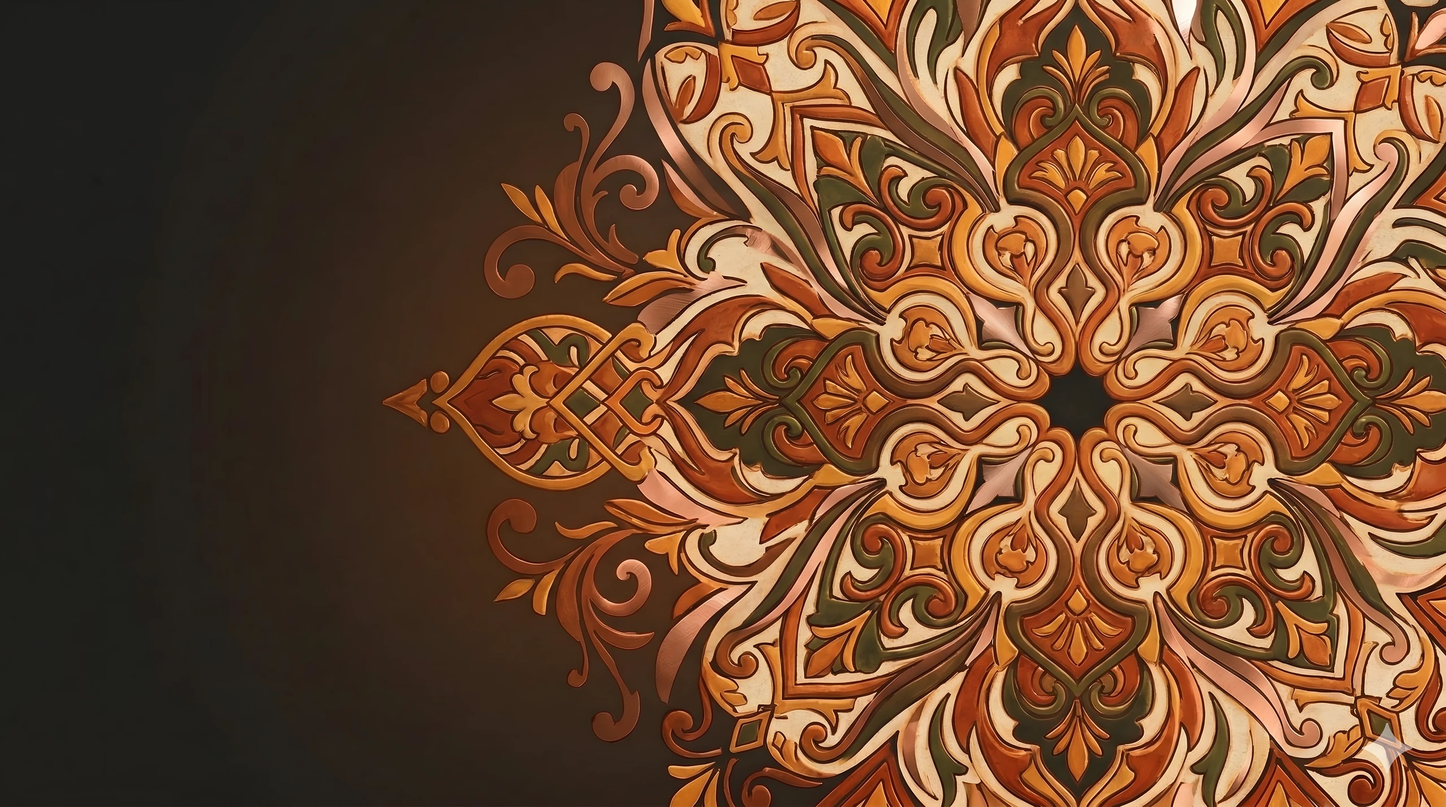
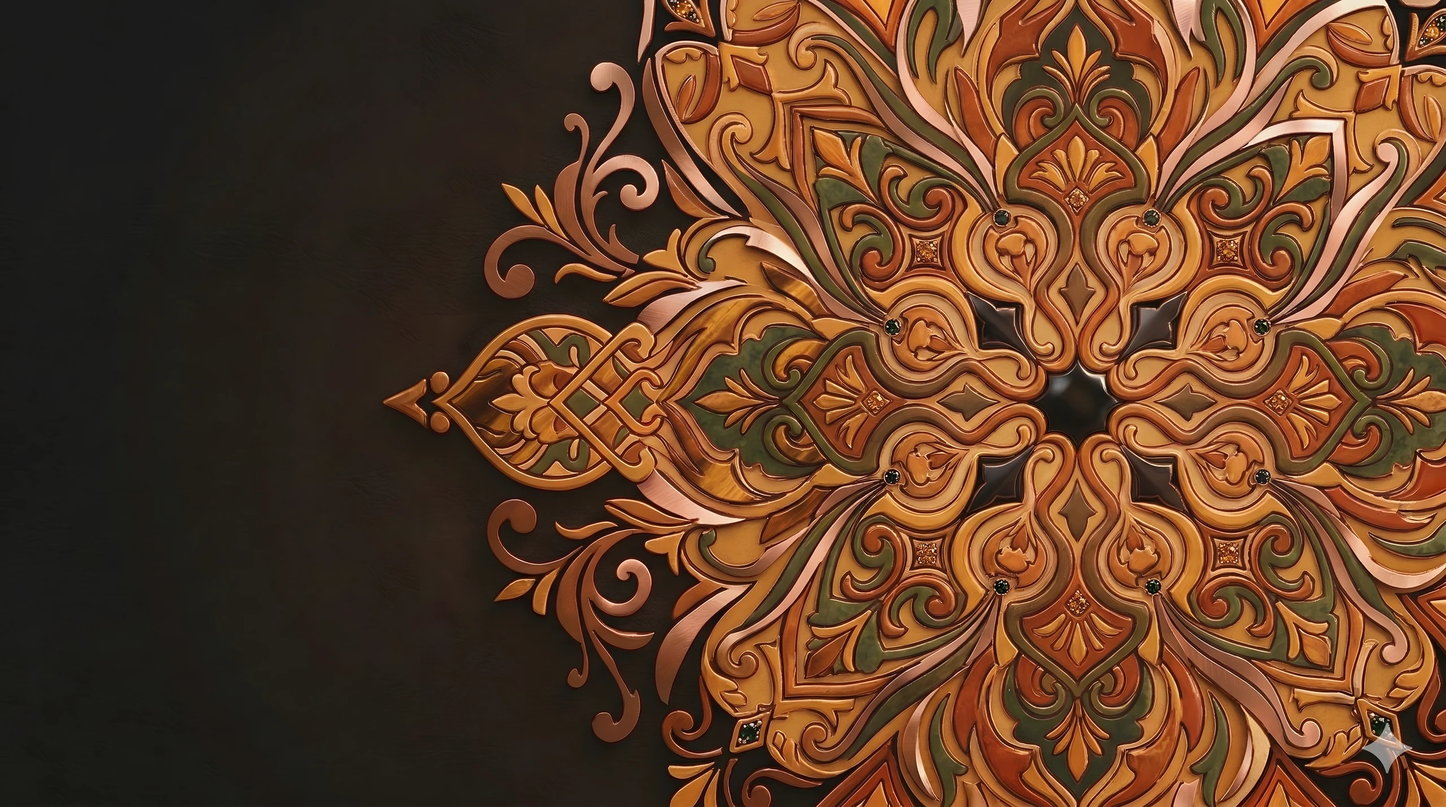
style: update ordina hero image, add B&W chi siamo image, center services header
- Replace ordina hero with new upscaled image
- Add B&W image for chi siamo card flip front
- Center services section header text
- Use charcoal color for services header

diff --git a/src/components/ServicesGrid.jsx b/src/components/ServicesGrid.jsx
@@ -179,15 +179,15 @@ const ServicesGrid = () => {
         <section ref={sectionRef} className="relative z-10">
             {/* Header — sfondo bianco, scritte arancioni */}
             <div className="bg-cream py-14 sm:py-20 lg:pt-32 lg:pb-8 px-4 sm:px-8 md:px-12">
-                <div className="services-header flex flex-col gap-4">
-                    <span className="font-mono text-flame text-sm tracking-widest uppercase">
+                <div className="services-header flex flex-col gap-4 items-center text-center">
+                    <span className="font-mono text-charcoal text-sm tracking-widest uppercase">
                         {services.eyebrow}
                     </span>
-                    <h2 className="font-playfair font-black text-flame text-[clamp(1.8rem,4vw,3.5rem)] leading-[0.95] max-w-xl">
+                    <h2 className="font-playfair font-black text-charcoal text-[clamp(1.8rem,4vw,3.5rem)] leading-[0.95] max-w-xl">
                         {services.headline}<br />
                         <span className="italic">{services.headlineEm}</span> {services.headlineSuffix}
                     </h2>
-                    <p className="font-sans text-flame/70 text-base max-w-lg leading-relaxed">
+                    <p className="font-sans text-charcoal/70 text-base max-w-lg leading-relaxed">
                         {services.subtext}
                     </p>
                 </div>

diff --git a/src/components/Features.jsx b/src/components/Features.jsx
@@ -146,7 +146,7 @@ const Features = () => {
                                     >
                                         <div
                                             className="absolute inset-0 bg-no-repeat accordion-front"
-                                            style={{ backgroundImage: `url('/images/wmremove-transformed (43).webp')` }}
+                                            style={{ backgroundImage: `url('/images/chi-siamo-bw.webp')` }}
                                             data-pos={pos}
                                         />
                                     </div>
